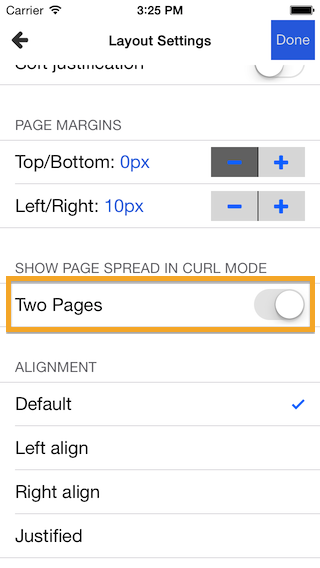
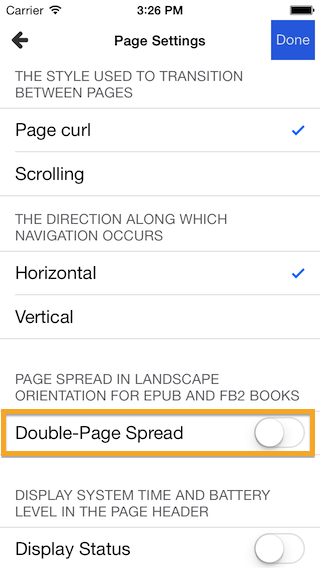
update kybook news and support

diff --git a/kybook/news/_posts/2013-11-20-appstore152.html b/kybook/news/_posts/2013-11-20-appstore152.html
@@ -1,0 +1,20 @@
+---
+layout: kybook_post
+title: Version 1.5.2
+---
+
+<p>KyBook v1.5.2 is now available on the App Store.</p>
+	
+
+<p><strong>What's New in this Version</strong></p>
+<ul>
+	<li>Fixed a crash that could occur while reading PDF documents.</li>
+	<li>Fixed an issue with display of previously deleted items in Google.Drive cloud.</li>
+	<li>Simplified an activation of a page spread mode.</li>
+	<li>Setting for an action after downloading ebook (show a message, play a sound, open a book).</li>
+	<li>Menu (delete, open, select all, download) for files in the clouds and local network.</li>
+	<li>Editable title of bookmarks.</li>
+	<li>Tags for books (search by tag, editing).</li>
+	<li>Ability to search local OPDS catalogs (Calibre).</li>
+</ul>
+

diff --git a/kybook/faq/_posts/2013-11-10-page-spread.html b/kybook/faq/_posts/2013-11-10-page-spread.html
@@ -13,9 +13,7 @@ title: How to enable Page spread (two-pages) mode
 <p><strong>Please, take into account, what two-pages mode is only works if</strong></p>
 
 <ol>
-<li>A book has EPUB,FB2,TXT or RTF format</li>
+<li>A book has EPUB, FB2, TXT or RTF format</li>
 <li>KyBook runs in Landscape Orientation</li>
-<li>The Page Transition Style is Page Curl</li> 
-<li>The Page Transition Direction is Horizontal</li> 
 </ol>
 

diff --git a/kybook/faq/_posts/2013-07-22-text-to-speech.html b/kybook/faq/_posts/2013-07-22-text-to-speech.html
@@ -1,6 +1,6 @@
 ---
 layout: kybook_post
-title: How to start text-to-speech?
+title: How to start text-to-speechon on iOS 6?
 ---
 
 <div>
